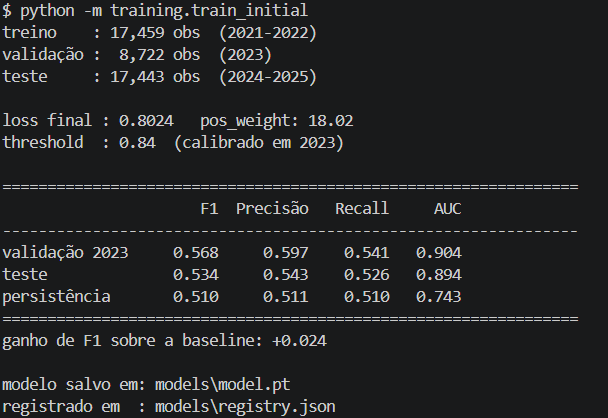
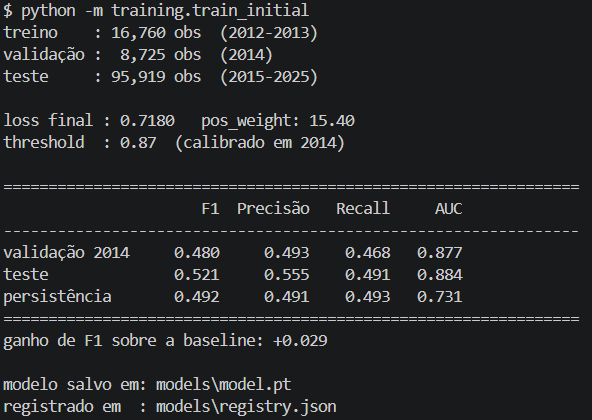
Atualiza resultados e evidências para protocolo temporal 2012-2025
- Documenta treino 2012-2013, validação 2014 e teste 2015-2025.
- Atualiza métricas do treino inicial e limiar calibrado em 2014.
- Registra replay de 95.919 predições, 133 updates e versão v134.
- Substitui screenshots do dataset, treino, replay, monitoramento e dashboard.

diff --git a/README.md b/README.md
@@ -10,44 +10,47 @@ Sistema que prevê chuva na próxima hora e demonstra atualização incremental 
 
 > **Escopo:** projeto de portfólio e demonstração de ML/MLOps. Não é um sistema meteorológico operacional e não deve ser usado para decisões reais. A API pública foi validada para inferência no Render; como o filesystem do plano gratuito é efêmero, updates em runtime não oferecem persistência durável. O replay percorre o mesmo período do teste offline e não é evidência independente de generalização.
 
-![Dashboard de monitoramento](docs/images/09-dashboard-monitoramento-v25.png)
+![Dashboard de monitoramento](docs/images/09-dashboard-monitoramento.png)
 
 ## Resultado principal
 
-A estação usada é a MIA, em Miami, com dados do [Iowa Environmental Mesonet](https://mesonet.agron.iastate.edu/request/download.phtml). O dataset preparado contém 43.624 observações horárias, 16 features e cobre de 2021-01-01 a 2025-12-30. O alvo é `rain_next_hour`.
+A estação usada é a MIA, em Miami, com dados do [Iowa Environmental Mesonet](https://mesonet.agron.iastate.edu/request/download.phtml). O dataset preparado contém 121.404 observações horárias, 16 features e cobre de 2012-02-01 a 2025-12-30. O alvo é `rain_next_hour`.
 
 ### Avaliação offline
 
-O split é temporal: treino em 2021–2022, calibração do limiar em 2023 e teste final em 2024–2025.
+O split é temporal: treino em 2012–2013, calibração do limiar em 2014 e teste final em 2015–2025. O teste foi usado uma única vez.
 
 | Modelo | F1 | Precisão | Recall | ROC AUC |
 |---|---:|---:|---:|---:|
-| **MLP PyTorch** | **0,534** | 0,543 | 0,526 | **0,894** |
-| Persistência | 0,510 | 0,511 | 0,510 | 0,743 |
+| **MLP PyTorch** | **0,521** | 0,555 | 0,491 | **0,884** |
+| Persistência | 0,492 | 0,491 | 0,493 | 0,731 |
 
-O limiar final foi `0,84`, calibrado na validação de 2023. A linha de persistência representa a regra “se está chovendo agora, vai chover na próxima hora” e funciona como referência de sanidade.
+O limiar final foi `0,87`, calibrado na validação de 2014. A linha de persistência representa a regra “se está chovendo agora, vai chover na próxima hora” e funciona como referência de sanidade. O ganho de F1 sobre a baseline foi de `+0,029`.
 
 ![Treino inicial do baseline](docs/images/03-treino-inicial-v1.png)
 
 ### Replay operacional
 
-O replay percorreu os dados de 2024–2025 hora a hora, com os rótulos chegando em lotes a cada 30 dias. O modelo prediz primeiro, o lote é avaliado com o estado anterior e só depois os pesos são atualizados.
+O replay percorreu os dados de 2015–2025 hora a hora, com os rótulos chegando em lotes a cada 30 dias. O modelo prediz primeiro, o lote é avaliado com o estado anterior e só depois os pesos são atualizados.
 
 | Indicador | Resultado |
 |---|---:|
-| Período | 2024-01-01 a 2025-12-30 |
-| Predições servidas | 17.443 |
-| Atualizações incrementais | 24 |
-| Versão final | **v25** |
-| Rótulos recebidos | 17.205 |
-| Probabilidade média | 0,2899 |
-| F1 acumulado | 0,535 |
-| Precisão acumulada | 0,540 |
-| Recall acumulado | 0,530 |
+| Período | 2015-01-01 a 2025-12-30 |
+| Predições servidas | 95.919 |
+| Atualizações incrementais | 133 |
+| Versão final | **v134** |
+| Rótulos recebidos | 95.274 |
+| Probabilidade média | 0,281 |
+| F1 acumulado | 0,518 |
+| Precisão acumulada | 0,568 |
+| Recall acumulado | 0,476 |
+| Acurácia acumulada | 0,951 |
 
-O replay demonstra o ciclo operacional e o versionamento de v1 a v25. Ele percorre o mesmo período do teste offline, portanto não é evidência independente de generalização para dados futuros.
+O replay demonstra o ciclo operacional e o versionamento de v1 a v134. Ele percorre o mesmo período do teste offline, portanto não é evidência independente de generalização para dados futuros. A diferença entre predições servidas e rótulos recebidos corresponde às observações que permaneceram no buffer final por não completarem uma janela de atualização de 30 dias.
 
-![Replay operacional completo](docs/images/06-simulacao-completa-2024-2025.png)
+![Início do replay operacional](docs/images/06a-simulacao-2015-2025.png)
+
+![Resumo do replay operacional](docs/images/06b-simulacao-2015-2025.png)
 
 ## Fluxo do sistema
 
@@ -117,7 +120,19 @@ A avaliação ocorre antes do treino em cada update. Assim, as métricas de uma 
 16 features → Linear(16) → ReLU → Linear(1) → logit
 ```
 
-A rede tem 289 parâmetros. A loss usa `BCEWithLogitsLoss(pos_weight ≈ 18)` para lidar com o desbalanceamento, e o scaler é ajustado uma vez e congelado. O split temporal evita vazamento entre períodos correlacionados.
+A rede tem 289 parâmetros. A loss do treino inicial terminou em `0,7180`, com `pos_weight = 15,40`. O scaler é ajustado uma vez e congelado. O split temporal evita vazamento entre períodos correlacionados.
+
+### Divisão temporal
+
+| Conjunto | Período | Observações | Uso |
+|---|---|---:|---|
+| Treino | 2012 e 2013 | 16.760 | Aprende os pesos |
+| Validação | 2014 | 8.725 | Calibra o limiar de decisão |
+| Teste | 2015 a 2025 | 95.919 | Avaliação final, usada uma única vez |
+
+**Por que não usar split aleatório?** Embaralhar colocaria observações de períodos próximos em treino e teste. Como as horas vizinhas são correlacionadas, isso permitiria acesso indireto à resposta e produziria uma métrica otimista.
+
+**Por que calibrar o limiar na validação?** Escolhê-lo olhando o teste transformaria o teste em treino e inflaria o resultado final.
 
 ## API
 
@@ -180,19 +195,22 @@ source .venv/bin/activate
 pip install torch --index-url https://download.pytorch.org/whl/cpu
 pip install -r requirements-train.txt
 
-# Baixe o CSV completo da estação MIA, de 2021 a 2025.
-curl -L "https://mesonet.agron.iastate.edu/cgi-bin/request/asos.py?network=FL_ASOS&station=MIA&data=all&year1=2021&month1=1&day1=1&year2=2025&month2=12&day2=31&tz=Etc%2FUTC&format=onlycomma&latlon=no&elev=no&missing=M&trace=T&direct=no&report_type=3&report_type=4" \
-  -o data/MIA_2021_2025.csv
+# Baixe o CSV completo da estação MIA, de 2012 a 2025.
+curl -L "https://mesonet.agron.iastate.edu/cgi-bin/request/asos.py?network=FL_ASOS&station=MIA&data=all&year1=2012&month1=1&day1=1&year2=2025&month2=12&day2=31&tz=Etc%2FUTC&format=onlycomma&latlon=no&elev=no&missing=M&trace=T&direct=no&report_type=3&report_type=4" \
+  -o data/MIA_2012_2025.csv
 
-# O pipeline filtra as colunas, trata ausências, cria o alvo e deriva as features.
+# Prepare o dataset.
 python -m training.prepare_data \
-  --input data/MIA_2021_2025.csv \
-  --start-year 2021
+  --input data/MIA_2012_2025.csv \
+  --start-year 2012
 
+# Treine o modelo inicial.
 python -m training.train_initial
+
+# Execute o replay operacional.
 python -m training.simulate_production \
-  --start 2024-01-01 \
-  --days 730 \
+  --start 2015-01-01 \
+  --days 4017 \
   --update-every-days 30 \
   --in-process
 ```
@@ -217,28 +235,30 @@ docker build -f Dockerfile -t rain-incremental-ml-api:ci .
 
 O projeto possui integração contínua no GitHub Actions. A cada push ou pull request na branch `main`, o workflow configura Python 3.11, instala o PyTorch CPU e as dependências de treino e testes, executa a suíte automatizada, valida o Docker Compose e constrói a imagem da API.
 
-A execução local foi validada com **20 testes aprovados**, configuração do Docker Compose sem erros e build da imagem da API concluído. O workflow também foi executado com sucesso no GitHub Actions, incluindo testes, validação do Compose e construção da imagem Docker.
+A execução local foi validada com 20 testes aprovados, configuração do Docker Compose sem erros, build da imagem da API concluído, preparação do dataset 2012–2025, treino inicial, replay de 95.919 horas, 133 updates, versionamento de v1 a v134, dashboard operacional e predição pública HTTP 200.
 
 ![CI no GitHub Actions](docs/images/12-github-actions-ci.png)
 
-A execução validada inclui preparação de dados, treino inicial, inferência local, replay de 730 dias, 24 updates, versionamento, monitoramento Streamlit, Docker Compose com os dois serviços `healthy`, deploy público no Render e predição pública HTTP 200.
-
 ## Dados
 
-Fonte: [Iowa Environmental Mesonet](https://mesonet.agron.iastate.edu/request/download.phtml), estação `MIA`, UTC, período de 2021-01-01 a 2025-12-31. O download programático completo está documentado na seção **Pipeline local completo**.
+Fonte: [Iowa Environmental Mesonet](https://mesonet.agron.iastate.edu/request/download.phtml), estação `MIA`, UTC, período de 2012-01-01 a 2025-12-31. O download programático completo está documentado na seção **Pipeline local completo**.
 
-Campos brutos podem variar conforme a resposta do IEM; o pipeline seleciona e transforma as colunas necessárias. O alvo é a ocorrência de chuva na próxima hora, protegida contra observações seguintes que não estejam aproximadamente uma hora à frente.
+O dataset preparado efetivo contém dados de `2012-02-01 03:53:00` a `2025-12-30 22:53:00`, com 121.404 observações, 16 features e taxa positiva de 5,56%. Campos brutos podem variar conforme a resposta do IEM; o pipeline seleciona e transforma as colunas necessárias. O alvo é a ocorrência de chuva na próxima hora, protegida contra observações seguintes que não estejam aproximadamente uma hora à frente.
+
+![Dataset preparado 2012–2025](docs/images/02-dataset-preparado-2012-2025.png)
 
 ## Monitoramento
 
-O SQLite registra predições, atualizações e avaliações. O dashboard mostra volume de tráfego, versão em uso, distribuição de probabilidades e desempenho acumulado. A métrica por lote pode oscilar bastante; por isso o F1 acumulado é a referência principal.
+O SQLite registra predições, atualizações e avaliações. O dashboard mostra volume de tráfego, versão em uso, distribuição de probabilidades e desempenho acumulado. No replay final, foram registradas 95.919 predições, 95.274 rótulos, 133 updates e a versão v134. O desempenho acumulado foi F1 0,518, precisão 0,568 e recall 0,476.
 
-![Dashboard operacional](docs/images/09-dashboard-monitoramento-v25.png)
+![Dashboard operacional](docs/images/09-dashboard-monitoramento.png)
+
+![Versionamento e monitoramento](docs/images/07-versionamento-e-monitoramento.png)
 
 ## Limitações
 
 - O modelo usa uma única estação meteorológica em Miami; os resultados não se transferem automaticamente para outros climas.
-- As saídas não são probabilidades calibradas em sentido absoluto. O `pos_weight` desloca a escala; `0.84` é um limiar de decisão, não “84% de chance de chuva”.
+- As saídas não são probabilidades calibradas em sentido absoluto. O `pos_weight` desloca a escala; `0,87` é um limiar de decisão, não “87% de chance de chuva”.
 - O projeto não implementa detector automático de drift, alertas ou retreinamento agendado.
 - A API usa um único worker porque o modelo é atualizado in-place.
 - SQLite é adequado para demonstração local e baixa concorrência, não para múltiplas instâncias escrevendo simultaneamente.
